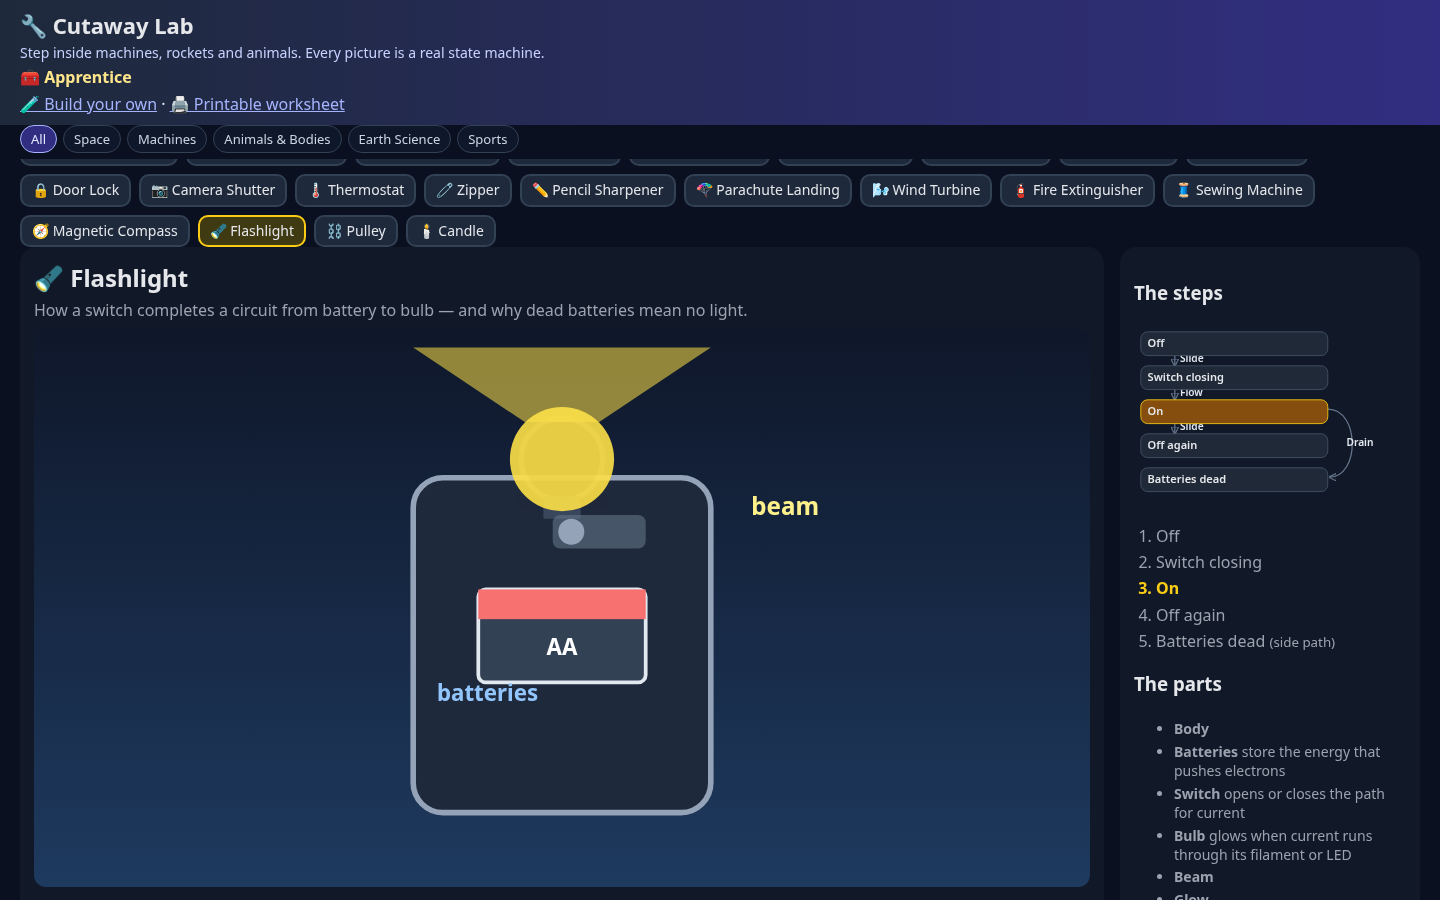
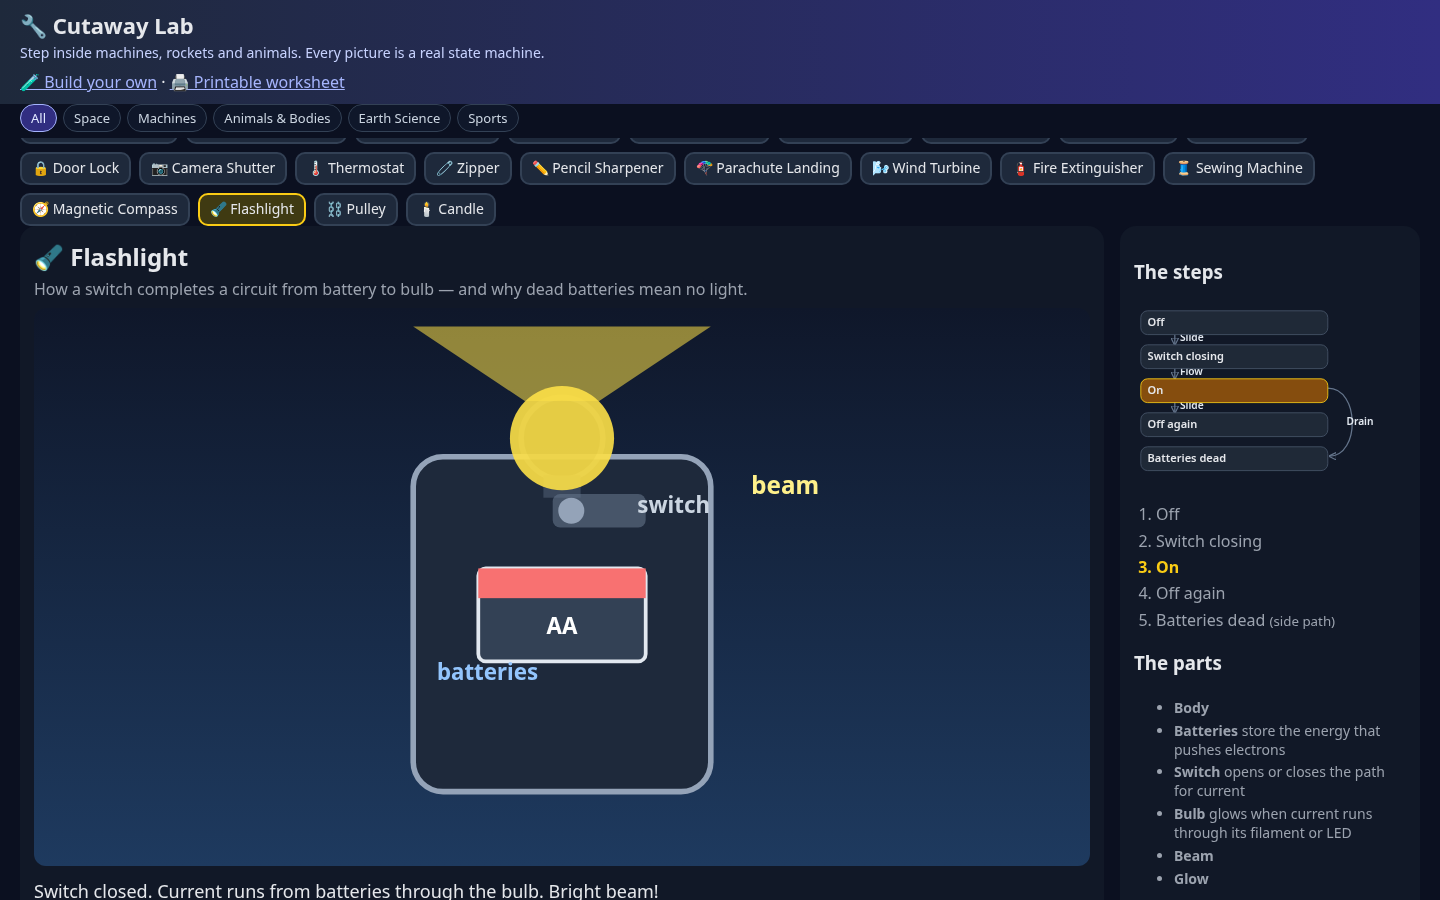
v1.0: flashlight switch caption

diff --git a/machines/flashlight.js b/machines/flashlight.js
@@ -9,6 +9,8 @@ export default {
       svg: '<rect x="155" y="140" width="90" height="50" rx="4" fill="#334155" stroke="#e2e8f0" stroke-width="2"/><rect x="155" y="140" width="90" height="16" fill="#f87171"/><text x="200" y="175" text-anchor="middle" fill="#fff" font-size="12" font-weight="700">AA</text>', explode: [-45, 0] },
     { id: 'switch', label: 'Switch', job: 'opens or closes the path for current',
       svg: '<rect x="175" y="100" width="50" height="18" rx="4" fill="#475569"/><circle cx="185" cy="109" r="7" fill="#94a3b8"/>', explode: [0, -35] },
+    { id: 'lblSwitch', label: 'Switch label',
+      svg: '<text x="260" y="110" text-anchor="middle" fill="#cbd5e1" font-size="12" font-weight="700">switch</text>' },
     { id: 'bulb', label: 'Bulb', job: 'glows when current runs through its filament or LED',
       svg: '<circle cx="200" cy="70" r="22" fill="#0f172a" stroke="#94a3b8" stroke-width="3"/><rect x="190" y="90" width="20" height="12" fill="#64748b"/>', explode: [0, -40] },
     { id: 'lblBeam', label: 'Beam label',
